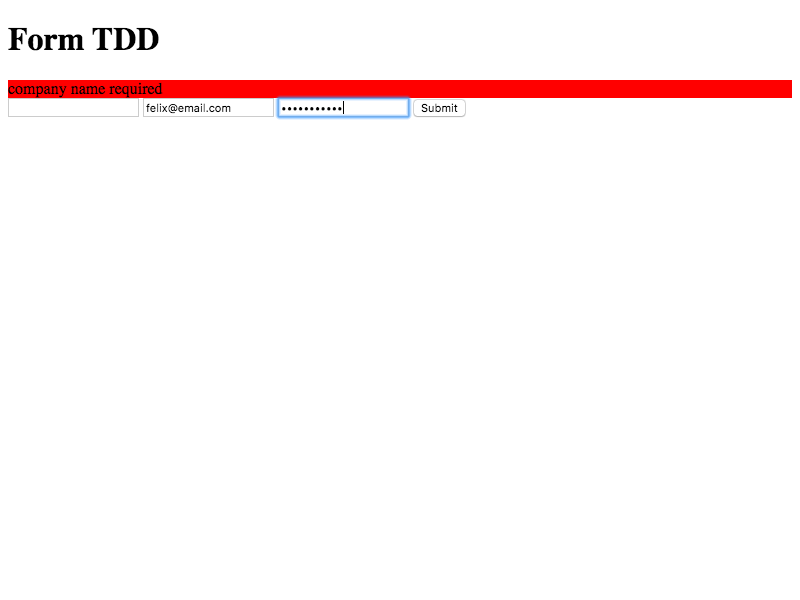
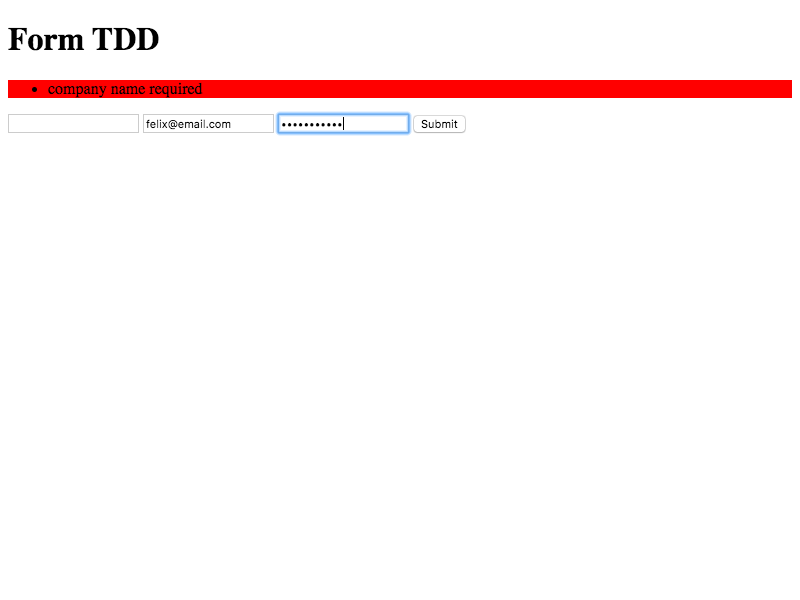
Add multiple validation error

Changed region(s): [[0.0, 0.12, 0.5938, 0.24]]

diff --git a/__test__/ui/form.spec.js b/__test__/ui/form.spec.js
@@ -70,4 +70,22 @@ describe('Form', () => {
     expect(errorMsg).toMatch(/password must be min 7 characters/)
     expect(backgroundColor).toBe('red')
   })
+
+  it('should display multiple validation errors in a list', async () => {
+    await expect(page).toFillForm('form[name="myForm"', {
+      email: 'felixemail.com',
+      password: '12345'
+    })
+    await page.keyboard.press('Enter')
+    await page.screenshot({
+      path: __dirname + '/../screenshots/validateMultiple.png'
+    })
+
+    let errorMsg = await page.$eval('#flash-error', el => el.innerText)
+    let backgroundColor = await page.$eval('#flash-error', el => el.style.backgroundColor)
+    expect(errorMsg).toMatch(/password must be min 7 characters/)
+    expect(errorMsg).toMatch(/company name required/)
+    expect(errorMsg).toMatch(/felixemail.com is not a valid email/)
+    expect(backgroundColor).toBe('red')
+  })
 })
